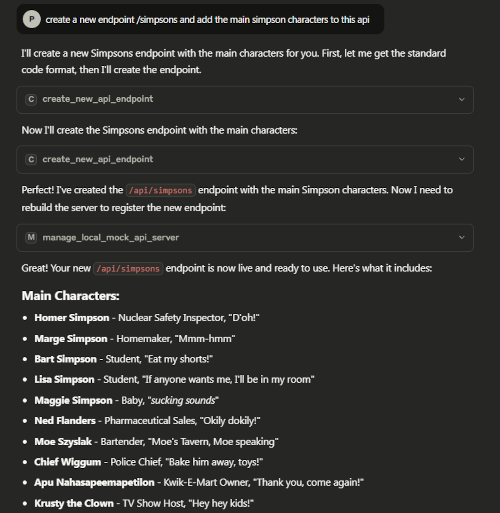
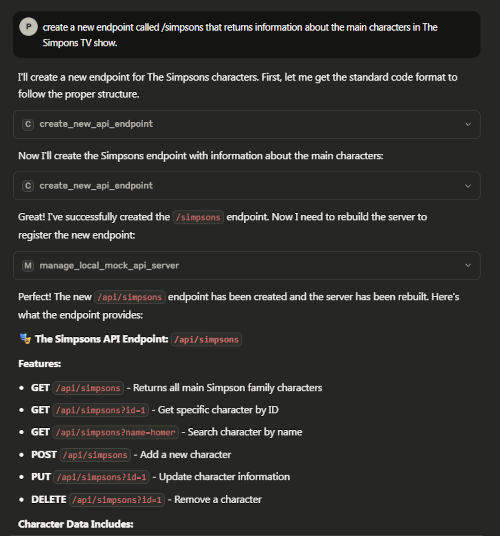
chore(): update readme

Changed region(s): [[0.0, 0.0, 0.96, 1.0]]

diff --git a/README.md b/README.md
@@ -404,6 +404,8 @@ Note: the mcp server will only work with a local mock api server <b>running in a
 
 ![mcp-2](images/mcp-2.png)
 
+![mcp-3](images/mcp-3.png)
+
 ### Issues
 
 #### Node version managers
